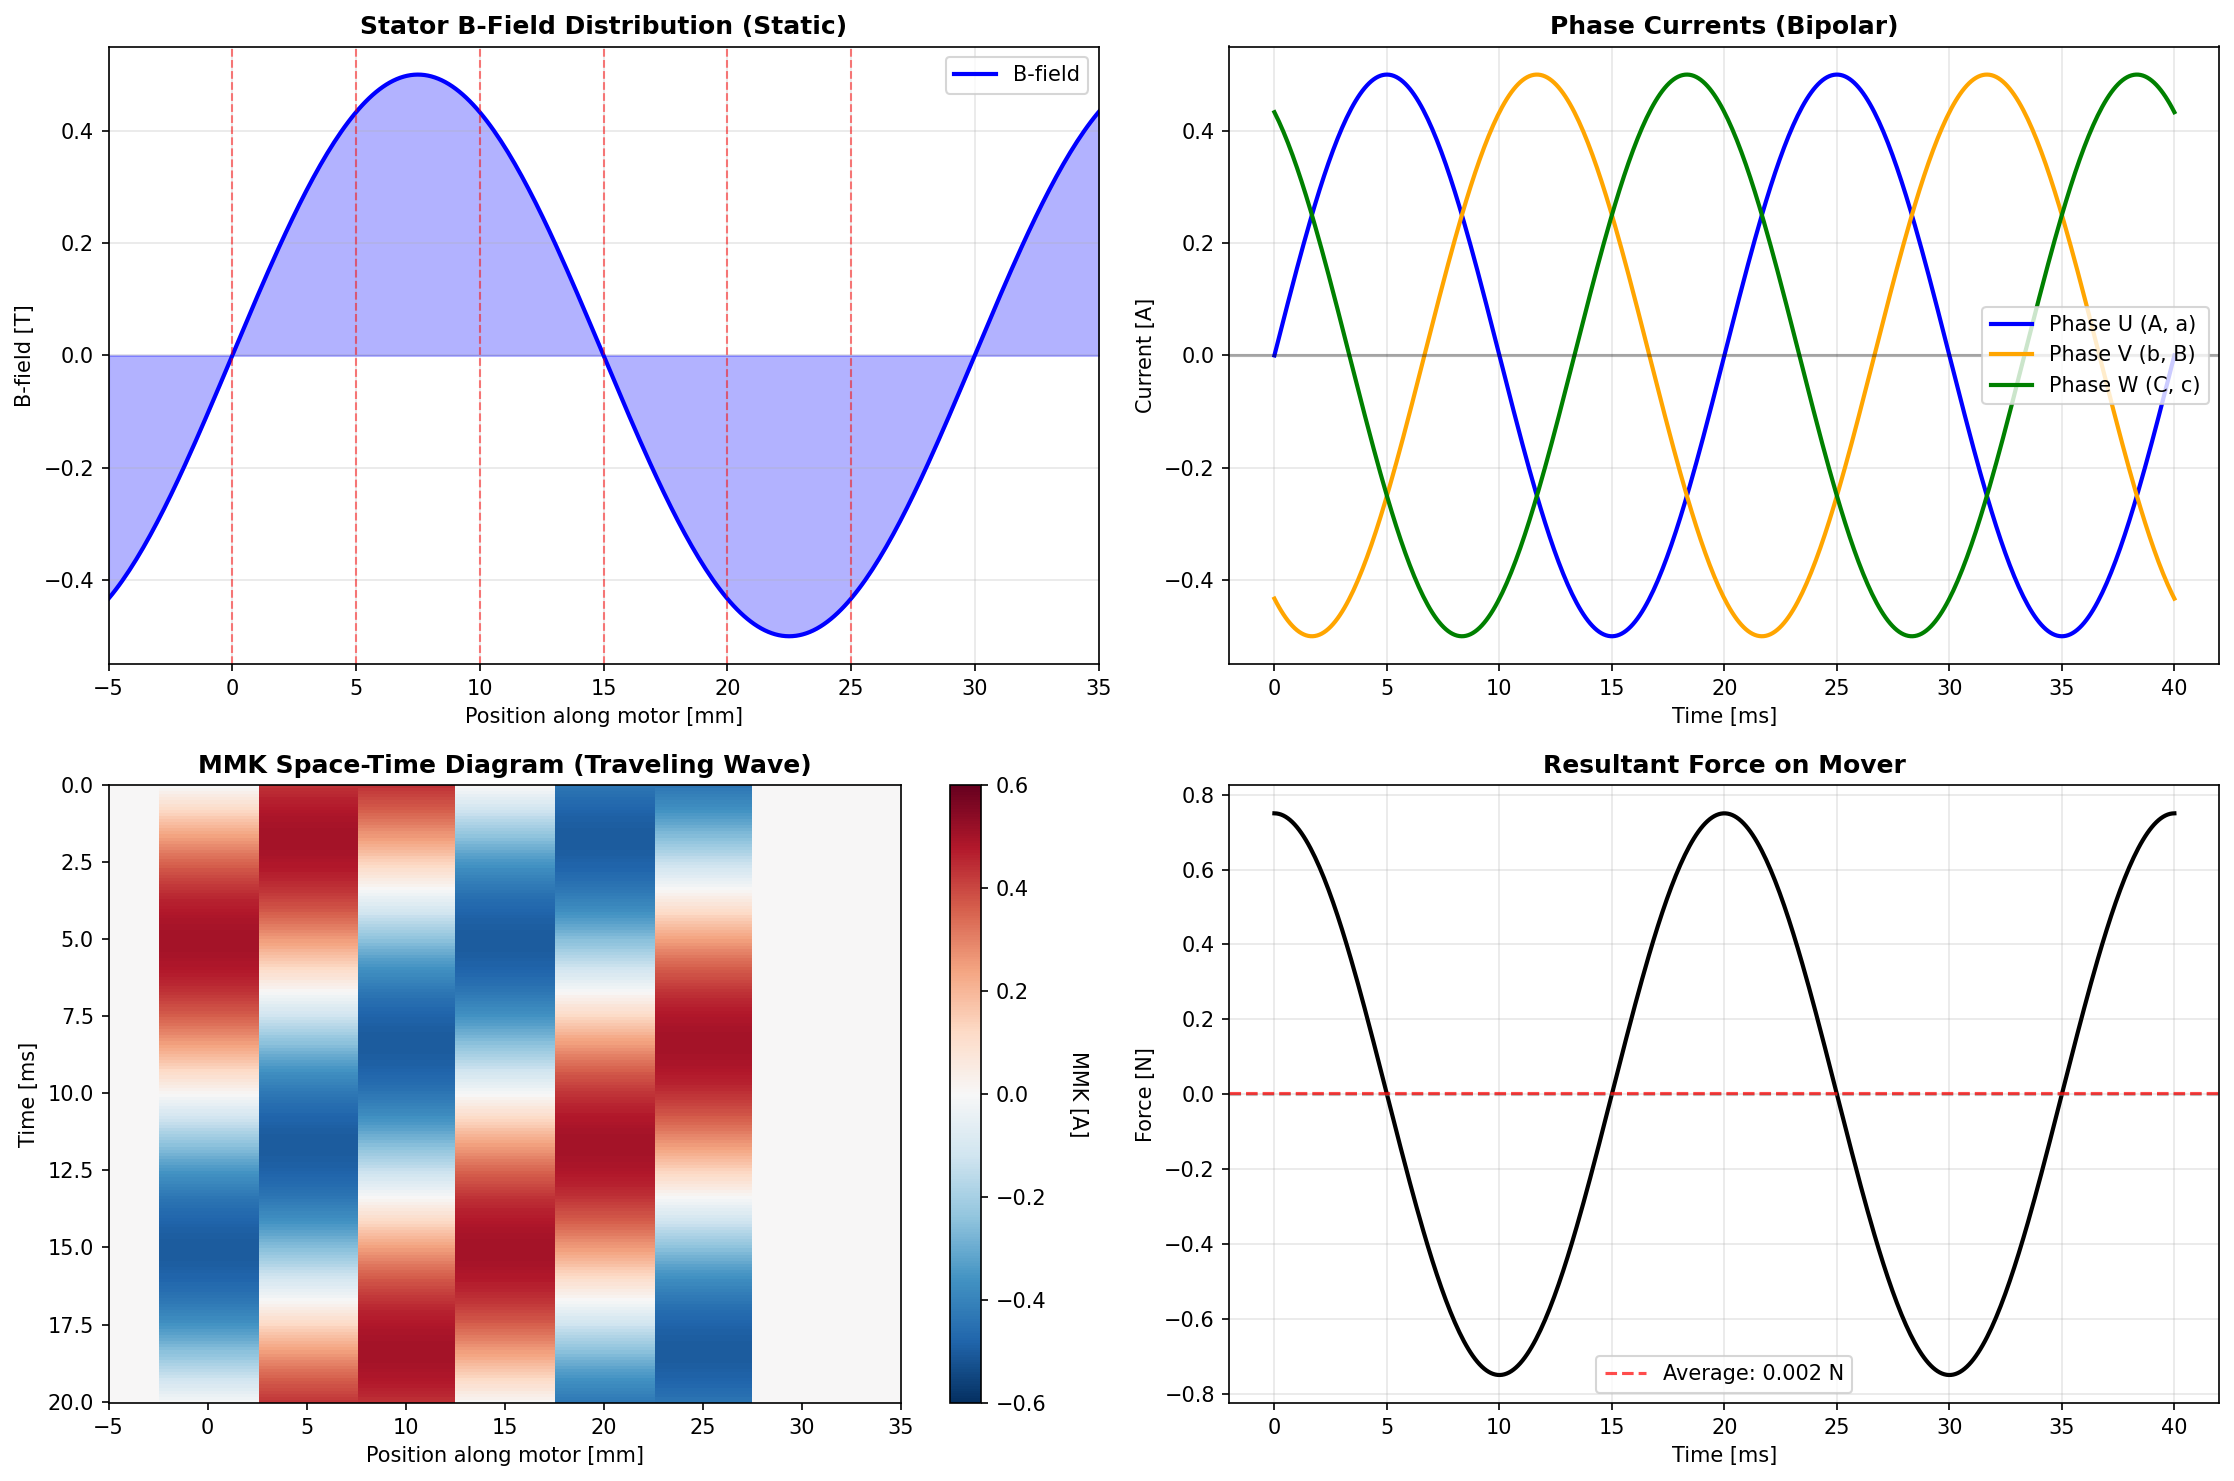
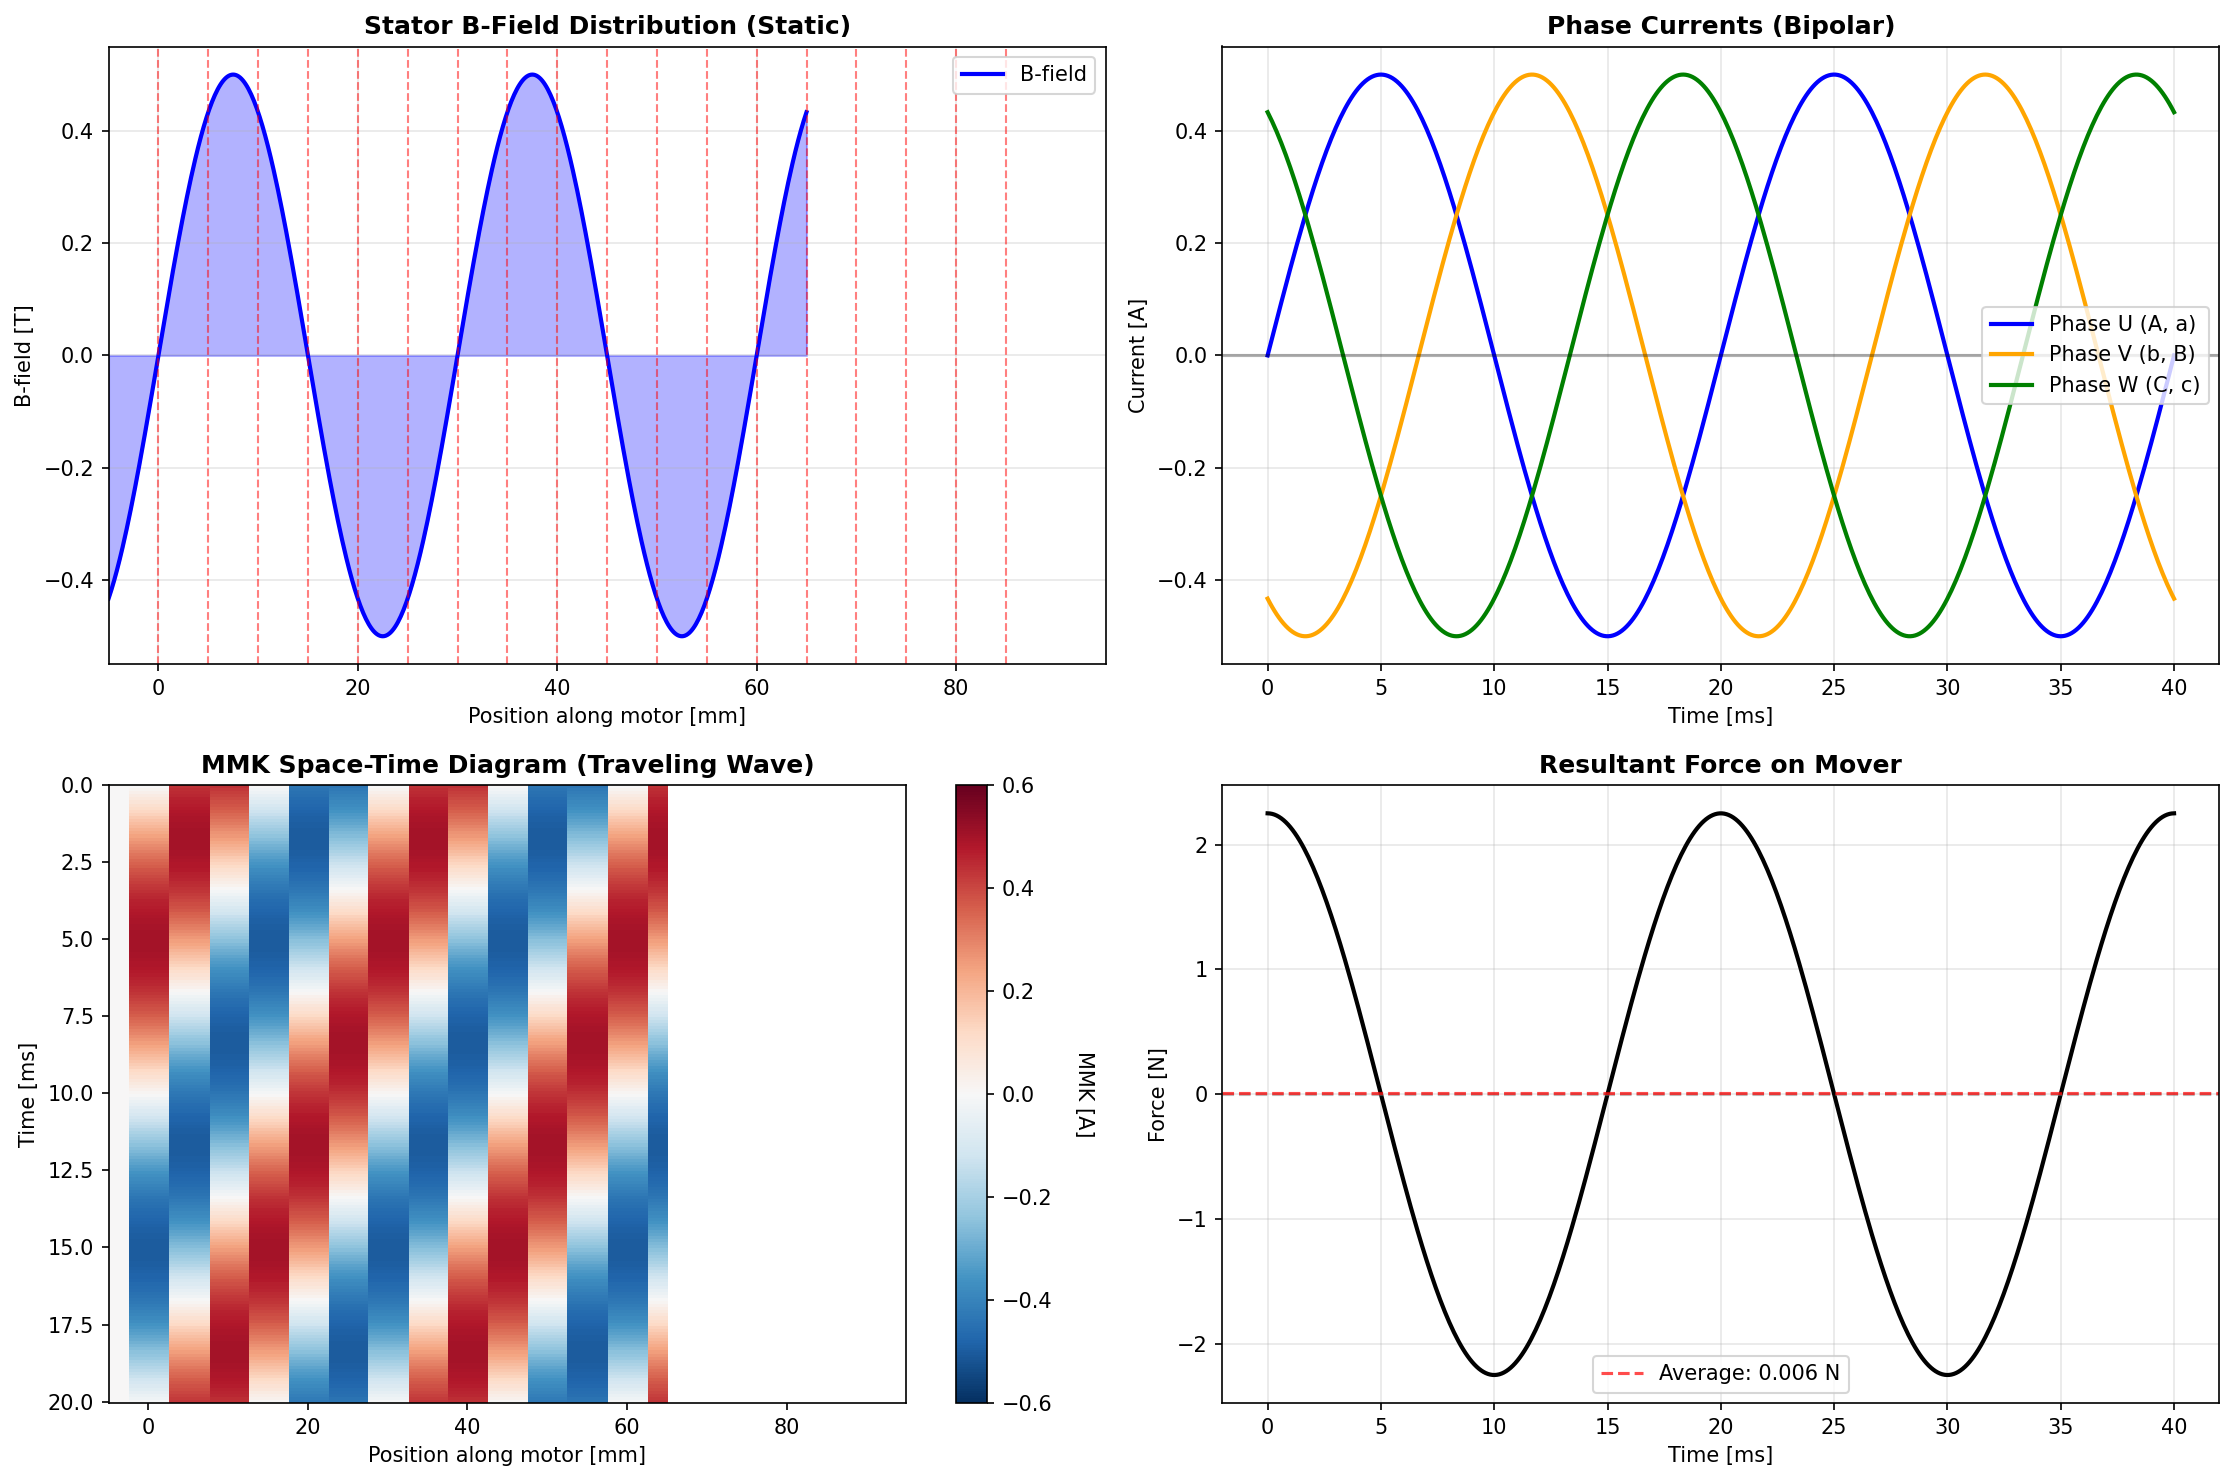
Fix Python simulation to match test setup: 18 coils (3 blocks)
Previous simulation only modeled 6 coils (1 block). Updated to match
the actual test setup configuration:

- Default n_blocks=3 (18 coils total, 90mm mover length)
- Coil positions: [0, 5, 10, ..., 85] mm (3× AbCaBc pattern)
- Updated plots to show all 18 coils with proper x-limits
- Added n_blocks parameter for flexibility
- Updated labels to show repeating A-b-C-a-B-c pattern

Simulation now correctly represents the test setup being built.
Force values remain relative (simplified 1D model); 60N at 2A
is from FEMM with full 2D geometry.

diff --git a/simulations/linear_motor_correct_physics.py b/simulations/linear_motor_correct_physics.py
@@ -1,31 +1,31 @@
 """
-Tubular Linear Motor - Correct MMK Simulation
-==============================================
+Tubular Linear Motor - Correct MMK Simulation (Test Setup)
+===========================================================
 
-This simulation models the actual physics of a tubular linear motor:
-- 6 coils distributed ALONG the motor length (not angularly)
-- Stator has sinusoidal B-field along its length: B(x) = B_max * sin(2πx/λ)
+This simulation models the TEST SETUP configuration:
+- 18 coils (3 × AbCaBc blocks) distributed ALONG motor length
+- Stator has sinusoidal B-field: B(x) = B_max * sin(2πx/λ)
 - Each coil produces MMK that interacts with LOCAL stator field
-- Force = MMK × B_field at each position, summed across all coils
+- Force = MMK × B_field at each position, summed across all 18 coils
 
-AbCaBc Winding Layout (along motor length):
-  Position:  0mm    5mm    10mm   15mm   20mm   25mm   30mm (pole pitch)
-             [A]    [b]    [C]    [a]    [B]    [c]
-             │      │      │      │      │      │
-  Phase:     U      V      W      U      V      W
-  Direction: +      -      +      -      +      -
+AbCaBc Winding Layout (Test Setup - 3 blocks = 90mm total):
+  Block 1 (0-30mm):   Block 2 (30-60mm):   Block 3 (60-90mm):
+  [A]  [b]  [C]      [A]  [b]  [C]        [A]  [b]  [C]
+  [a]  [B]  [c]      [a]  [B]  [c]        [a]  [B]  [c]
 
 Key Physics:
-- MMK from each coil is concentrated at its position (not distributed)
-- Force = Σ (MMK_coil × B_stator(x_coil)) across all 6 coils
+- MMK from each coil is concentrated at its position
+- Force = Σ (MMK_coil × B_stator(x_coil)) across all 18 coils
 - The traveling MMK wave "locks" into the stator field and pulls the mover
+- Force values are RELATIVE (simplified 1D model)
+- Actual force from FEMM: 60 N at 2 A (with full 2D geometry)
 """
 
 import numpy as np
 import matplotlib.pyplot as plt
 
 
-def simulate_linear_motor(time_points, pole_pitch_mm=30.0, coil_width_mm=5.0):
+def simulate_linear_motor(time_points, pole_pitch_mm=30.0, coil_width_mm=5.0, n_blocks=3):
     """
     Simulate the tubular linear motor with correct spatial physics.
     
@@ -37,6 +37,8 @@ def simulate_linear_motor(time_points, pole_pitch_mm=30.0, coil_width_mm=5.0):
         Distance between same poles (N-to-N) in mm
     coil_width_mm : float
         Width of each coil in mm (pole_pitch/6 for concentrated winding)
+    n_blocks : int
+        Number of AbCaBc blocks (test setup: 3 blocks = 18 coils, 90mm)
     
     Returns:
     --------
@@ -49,9 +51,9 @@ def simulate_linear_motor(time_points, pole_pitch_mm=30.0, coil_width_mm=5.0):
     force : array
         Total force at each time step [N]
     coil_positions_mm : array
-        Positions of the 6 coils [mm]
+        Positions of all coils [mm]
     coil_currents : 2D array
-        Current in each coil at each time [6 x time]
+        Current in each coil at each time [n_coils x time]
     """
     
     omega = 2 * np.pi * 50  # 50 Hz electrical
@@ -72,14 +74,29 @@ def simulate_linear_motor(time_points, pole_pitch_mm=30.0, coil_width_mm=5.0):
     i_V = (v_V - v_n) / R_phase
     i_W = (v_W - v_n) / R_phase
     
-    # Coil layout along motor length (AbCaBc pattern)
-    # Coils are spaced by pole_pitch/6 = 5mm
-    coil_positions_mm = np.array([0, 5, 10, 15, 20, 25])  # mm along motor
-    coil_phases = ['U', 'V', 'W', 'U', 'V', 'W']
-    coil_directions = [1, -1, 1, -1, 1, -1]  # A(+), b(-), C(+), a(-), B(+), c(-)
+    # Coil layout along motor length (AbCaBc pattern, repeated n_blocks times)
+    # Each block has 6 coils spaced by pole_pitch/6 = 5mm
+    block_positions = np.array([0, 5, 10, 15, 20, 25])  # mm within one pole pitch
+    block_phases = ['U', 'V', 'W', 'U', 'V', 'W']
+    block_directions = [1, -1, 1, -1, 1, -1]  # A(+), b(-), C(+), a(-), B(+), c(-)
+    
+    # Generate all coil positions for n_blocks
+    coil_positions_mm = []
+    coil_phases = []
+    coil_directions = []
+    
+    for block in range(n_blocks):
+        offset = block * pole_pitch_mm
+        for pos, phase, direction in zip(block_positions, block_phases, block_directions):
+            coil_positions_mm.append(offset + pos)
+            coil_phases.append(phase)
+            coil_directions.append(direction)
+    
+    coil_positions_mm = np.array(coil_positions_mm)
+    n_coils = len(coil_positions_mm)
     
     # Current in each coil at each time
-    coil_currents = np.zeros((6, len(time_points)))
+    coil_currents = np.zeros((n_coils, len(time_points)))
     for i, phase in enumerate(coil_phases):
         if phase == 'U':
             coil_currents[i] = i_U * coil_directions[i]
@@ -103,7 +120,7 @@ def simulate_linear_motor(time_points, pole_pitch_mm=30.0, coil_width_mm=5.0):
         mmk = np.zeros_like(positions_mm)
         instantaneous_force = 0
         
-        for coil_idx in range(6):
+        for coil_idx in range(n_coils):
             coil_pos = coil_positions_mm[coil_idx]
             coil_current = coil_currents[coil_idx, t_idx]
             
@@ -141,7 +158,7 @@ def plot_linear_motor_overview(positions_mm, b_field, mmk_data, force, time,
     ax1.set_xlabel('Position along motor [mm]')
     ax1.set_ylabel('B-field [T]')
     ax1.set_title('Stator B-Field Distribution (Static)', fontsize=12, fontweight='bold')
-    ax1.set_xlim(-5, 35)
+    ax1.set_xlim(-5, max(coil_positions) + 10)
     ax1.legend()
     ax1.grid(True, alpha=0.3)
     
@@ -177,7 +194,7 @@ def plot_linear_motor_overview(positions_mm, b_field, mmk_data, force, time,
     ax3.set_xlabel('Position along motor [mm]')
     ax3.set_ylabel('Time [ms]')
     ax3.set_title('MMK Space-Time Diagram (Traveling Wave)', fontsize=12, fontweight='bold')
-    ax3.set_xlim(-5, 35)
+    ax3.set_xlim(-5, max(coil_positions) + 10)
     cbar = plt.colorbar(im, ax=ax3)
     cbar.set_label('MMK [A]', rotation=270, labelpad=20)
     
@@ -202,7 +219,7 @@ def plot_linear_motor_overview(positions_mm, b_field, mmk_data, force, time,
 
 
 def plot_snapshots_linear(positions_mm, b_field, mmk_data, coil_positions, 
-                           coil_currents, time, pole_pitch,
+                           coil_currents, time, pole_pitch, n_blocks=3,
                            save_path='linear_motor_snapshots.png'):
     """Plot snapshots showing B-field and MMK interaction at different times."""
     
@@ -245,19 +262,22 @@ def plot_snapshots_linear(positions_mm, b_field, mmk_data, coil_positions,
         ax.set_xlabel('Position [mm]')
         if idx % 3 == 0:
             ax.set_ylabel('MMK [A] / B-field [T]')
-        ax.set_xlim(-2, 32)
+        ax.set_xlim(-2, n_blocks * 30 + 2)
         ax.set_ylim(-0.7, 0.7)
         if idx == 0:
             ax.legend(loc='upper right', fontsize=8)
         ax.grid(True, alpha=0.3)
         
-        # Add coil labels
-        coil_names = ['A', 'b', 'C', 'a', 'B', 'c']
+        # Add coil labels (repeating A-b-C-a-B-c for each block)
+        coil_names = []
+        for block in range(n_blocks):
+            coil_names.extend(['A', 'b', 'C', 'a', 'B', 'c'])
         for pos, name in zip(coil_positions, coil_names):
-            ax.text(pos, -0.6, name, ha='center', fontsize=9, fontweight='bold')
+            ax.text(pos, -0.6, name, ha='center', fontsize=8, fontweight='bold')
     
-    plt.suptitle('Linear Motor: MMK (bars) interacting with Stator B-field (blue curve)\n' +
-                'Force = Σ (MMK × B) at each coil position', 
+    plt.suptitle(f'Linear Motor: MMK (bars) interacting with Stator B-field (blue curve)\n'
+                f'{len(coil_positions)} coils ({n_blocks}× AbCaBc blocks) — '
+                f'Force = Σ (MMK × B) at each coil position', 
                 fontsize=13, fontweight='bold', y=1.02)
     plt.tight_layout()
     plt.savefig(save_path, dpi=150, bbox_inches='tight')
@@ -266,15 +286,20 @@ def plot_snapshots_linear(positions_mm, b_field, mmk_data, coil_positions,
 
 
 def main():
-    print("Tubular Linear Motor Simulation")
+    print("Tubular Linear Motor Simulation (Test Setup)")
     print("=" * 50)
     
     t = np.linspace(0, 0.04, 400)  # 2 periods at 50Hz
     
+    # Test setup: 3 blocks = 18 coils = 90mm total
+    n_blocks = 3
     positions_mm, b_field, mmk_data, force, coil_pos, coil_curr, pole_pitch = \
-        simulate_linear_motor(t, pole_pitch_mm=30.0, coil_width_mm=5.0)
+        simulate_linear_motor(t, pole_pitch_mm=30.0, coil_width_mm=5.0, n_blocks=n_blocks)
     
-    print(f"\nMotor Parameters:")
+    print(f"\nMotor Parameters (Test Setup):")
+    print(f"  Number of AbCaBc blocks: {n_blocks}")
+    print(f"  Total coils: {len(coil_pos)} (6 coils per block)")
+    print(f"  Total mover length: {n_blocks * 30} mm")
     print(f"  Pole pitch: {pole_pitch} mm")
     print(f"  Coil positions: {coil_pos} mm")
     print(f"  Peak B-field: {np.max(b_field):.2f} T")
@@ -288,7 +313,7 @@ def main():
                                 coil_pos, coil_curr, pole_pitch,
                                 'linear_motor_overview.png')
     plot_snapshots_linear(positions_mm, b_field, mmk_data, coil_pos, coil_curr,
-                          t, pole_pitch, 'linear_motor_snapshots.png')
+                          t, pole_pitch, n_blocks, 'linear_motor_snapshots.png')
     
     print("\nKey Physics:")
     print("  - Coils distributed ALONG motor length (0, 5, 10, 15, 20, 25 mm)")
